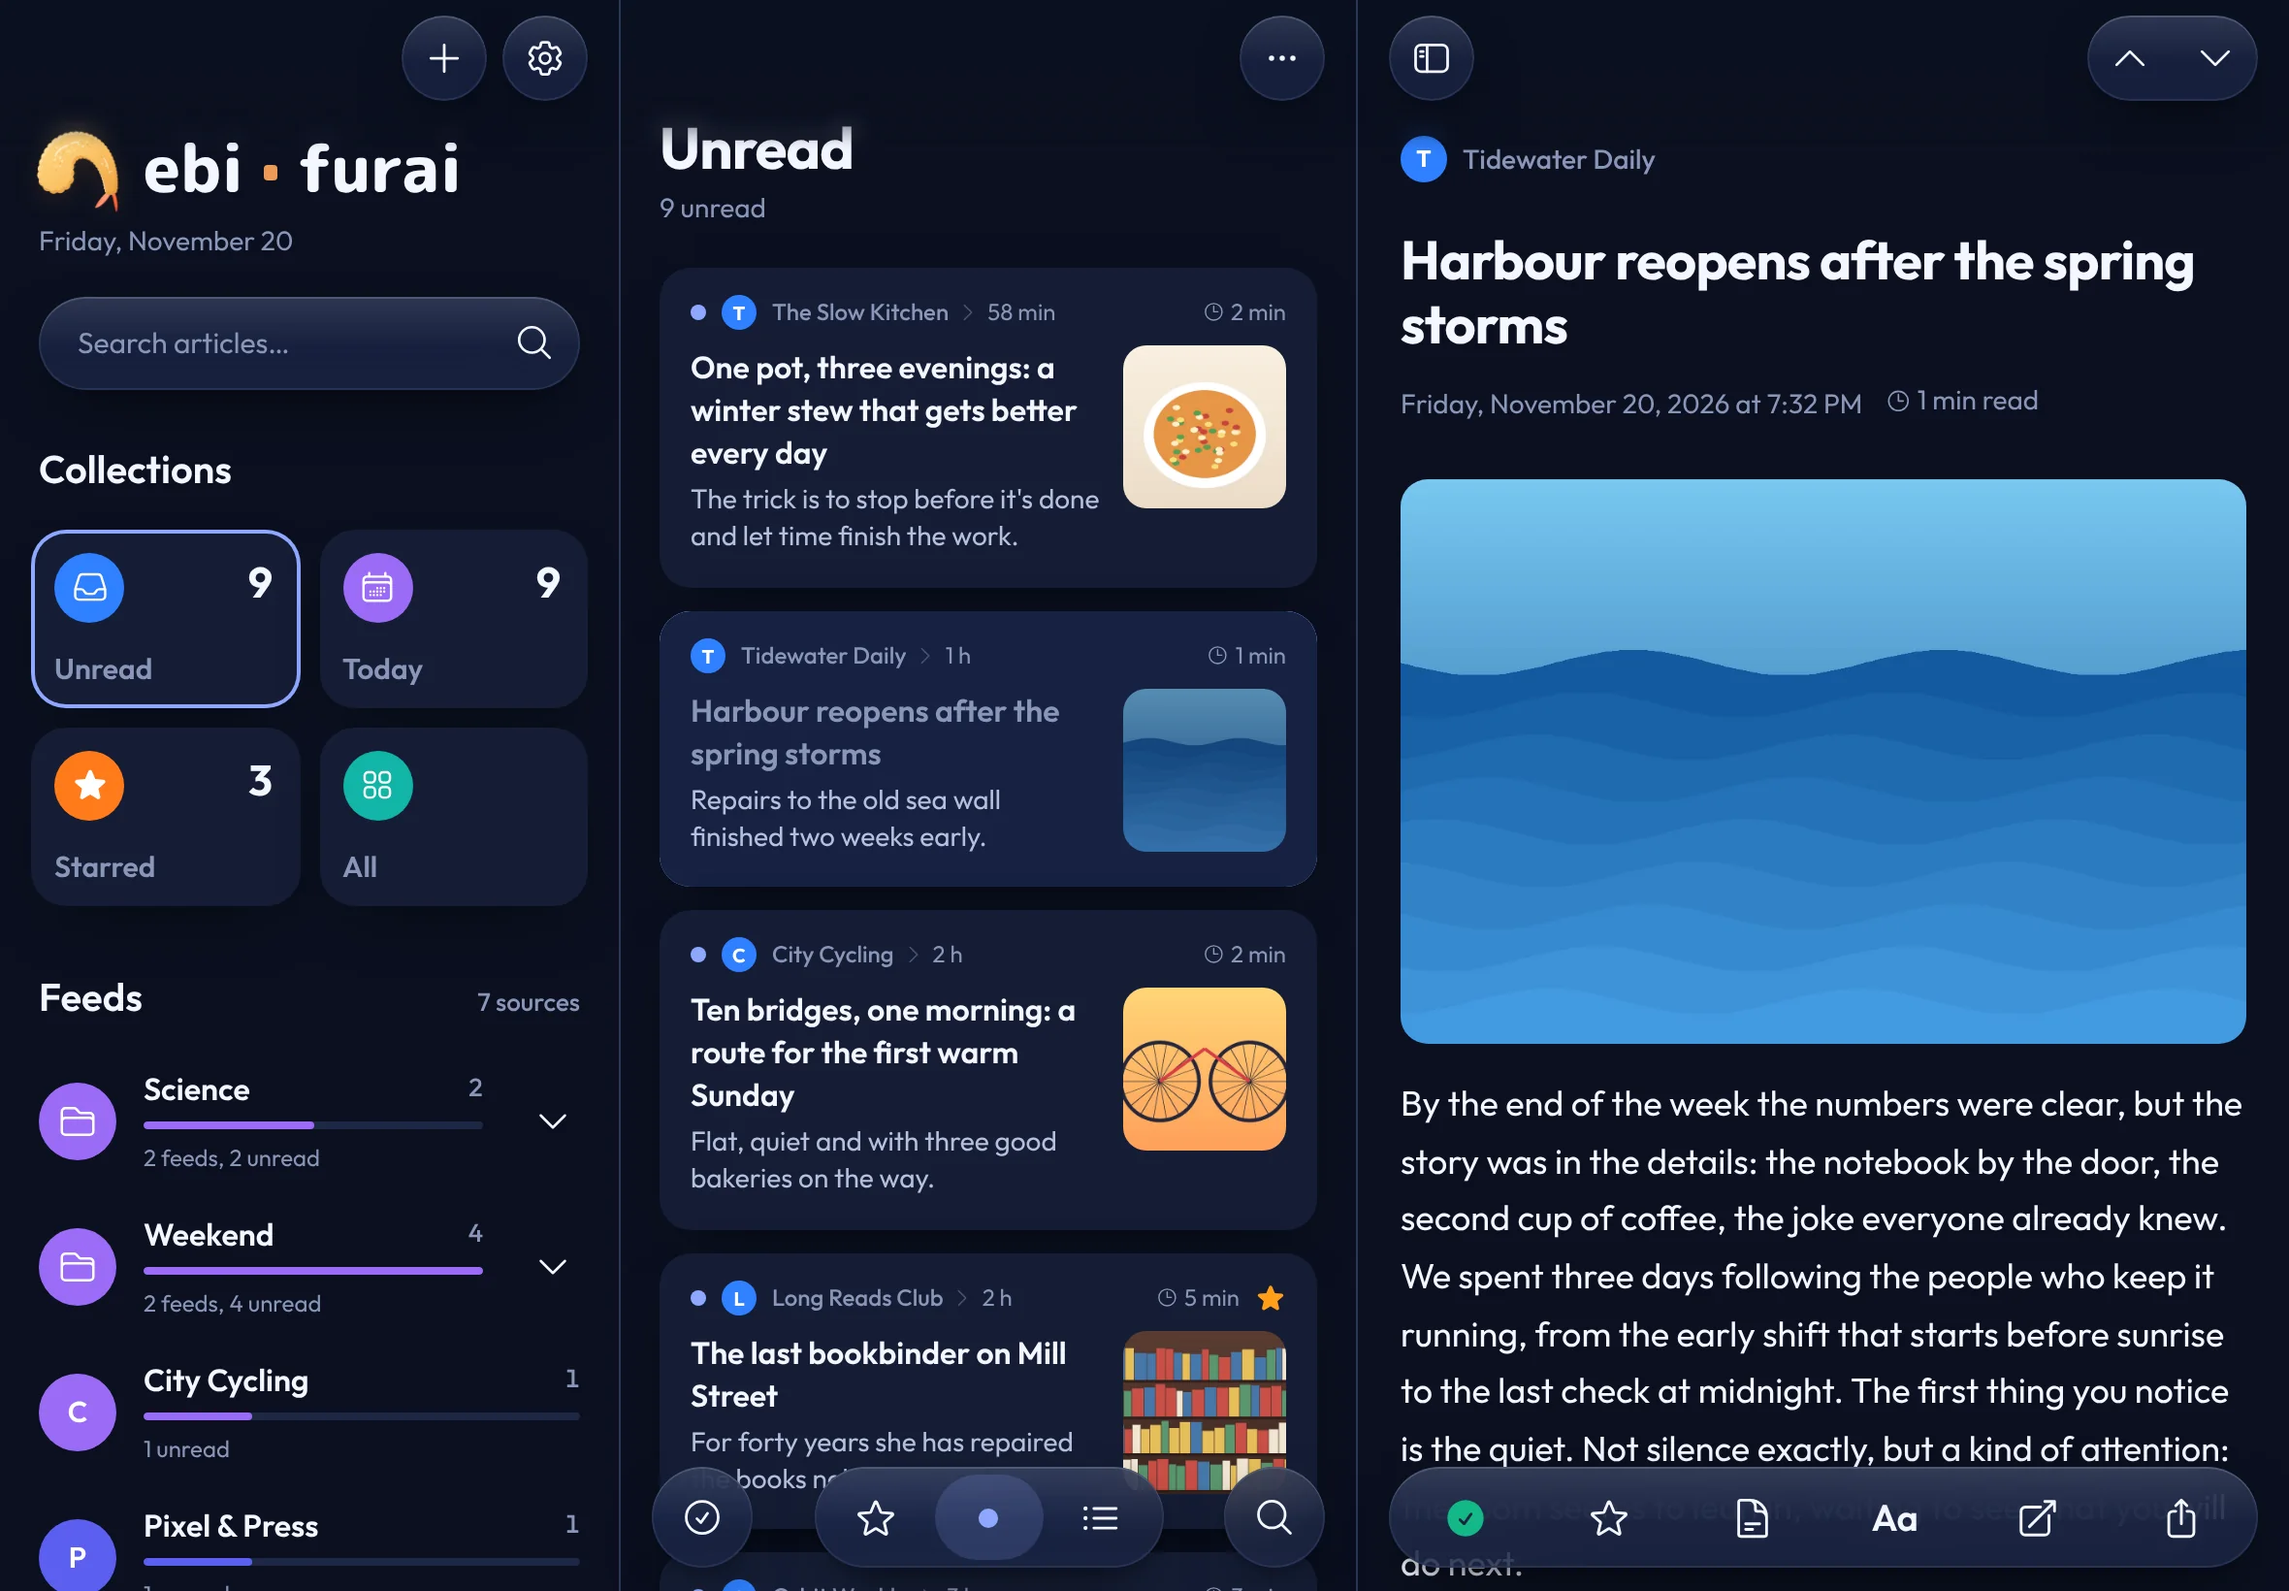
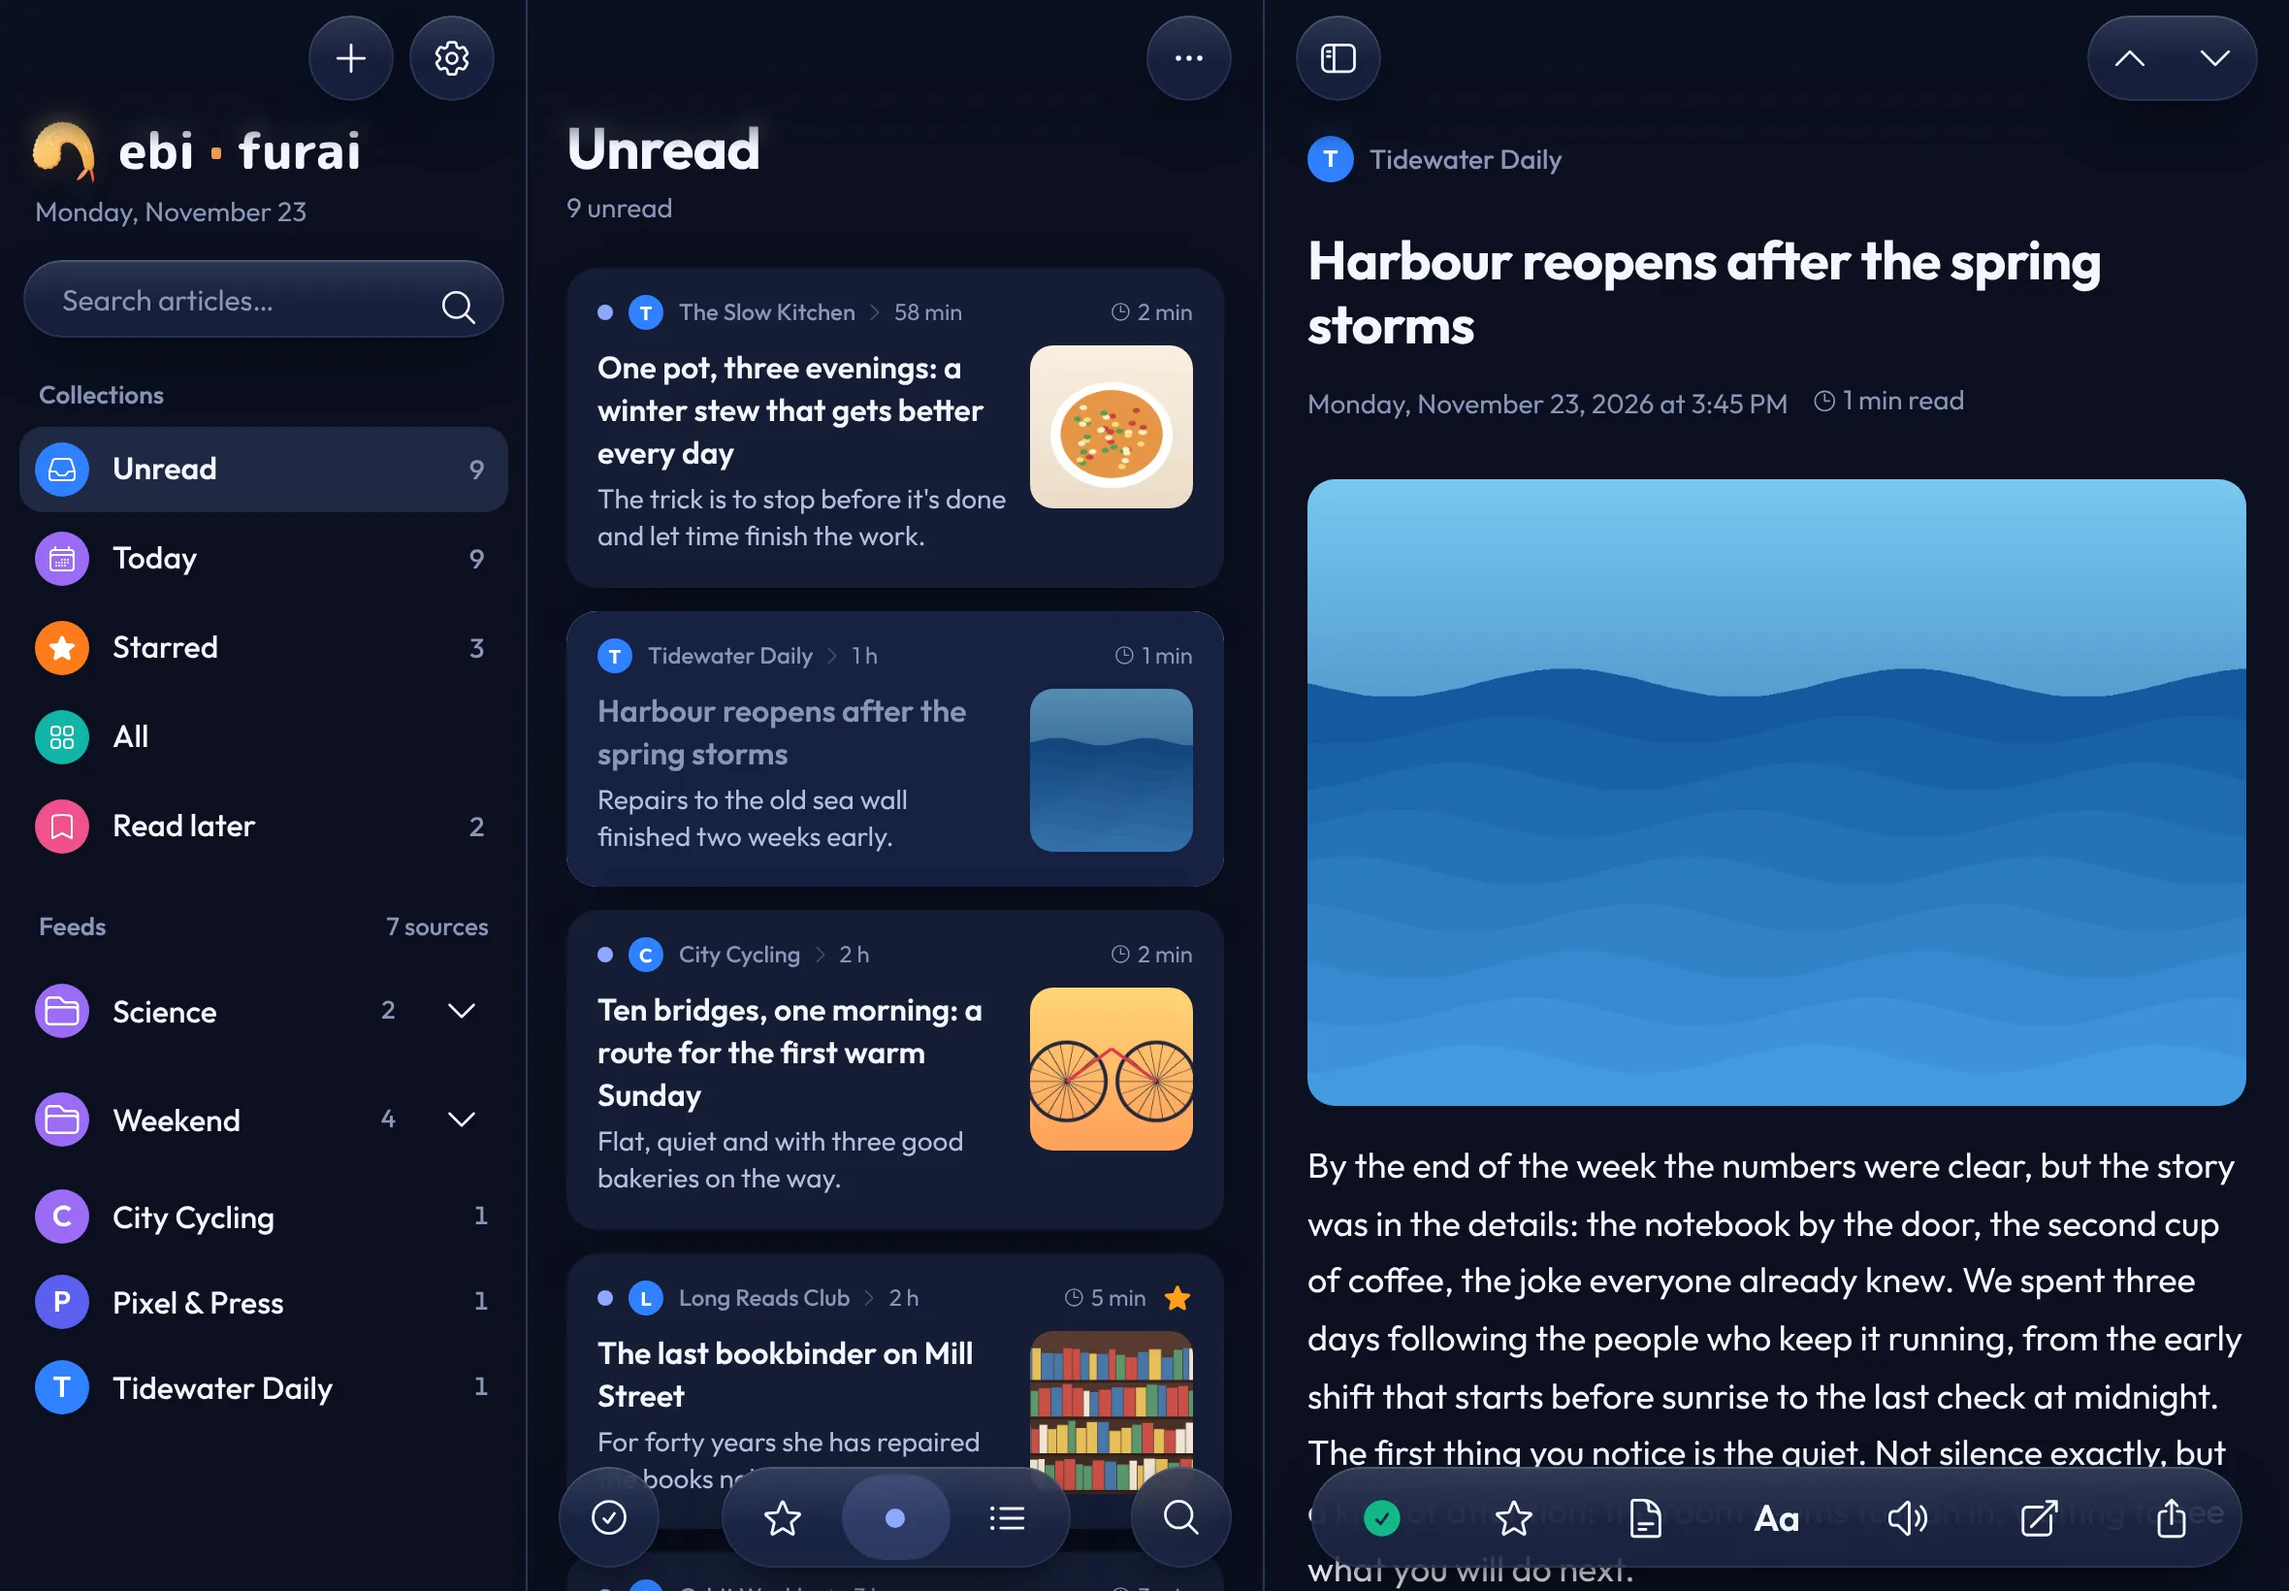
Website and README: fresh screenshots, the desktop app, new features
All screenshots taken again from the current version (the desktop ones
show the macOS-style layout, with Read later in the sidebar). The website
gets a section on the desktop app and cards for Read later, Listen and
the sounds; its link preview is a 1280x640 image. The README shows the
desktop too.

Claude-Session: https://claude.ai/code/session_019BDKZ8UJzomSz8wJyAW18P

diff --git a/site/index.html b/site/index.html
@@ -7,7 +7,7 @@
   <meta name="description" content="A self-hosted RSS reader in the spirit of Reeder Classic, made for iPhone and iPad first. One small server, your feeds stay with you.">
   <meta property="og:title" content="Ebi Furai">
   <meta property="og:description" content="A self-hosted RSS reader in the spirit of Reeder Classic, made for iPhone and iPad first.">
-  <meta property="og:image" content="https://trapassati.github.io/ebi-furai/images/ipad-light.webp">
+  <meta property="og:image" content="https://trapassati.github.io/ebi-furai/images/social.png">
   <meta name="theme-color" content="#2a1670">
   <link rel="icon" href="images/icon.png">
   <link rel="apple-touch-icon" href="images/icon.png">
@@ -248,10 +248,23 @@ docker compose up -d</code></pre></div></li>
 
         <div class="feature flip">
           <div class="text">
-            <h3>Three columns on iPad, shortcuts on the desktop</h3>
-            <p>Feeds, list and article side by side. On a computer everything scales with the screen and the keyboard does the walking: J and K, M, S, slash to search.</p>
+            <h3>Three columns on iPad</h3>
+            <p>Feeds, list and article side by side, in landscape and in portrait. The first column folds away when the article wants the room.</p>
           </div>
           <img class="shot" src="images/ipad-light.webp" alt="Three columns on iPad" loading="lazy">
+        </div>
+
+        <div class="feature">
+          <div class="text">
+            <h3>A real app on the computer</h3>
+            <p>On a Mac or a PC it works like a desktop app, in the style of today's macOS: commands at the top of each column, menus where you click, columns you can resize.</p>
+            <ul>
+              <li>Tooltips that show the keyboard shortcuts</li>
+              <li>J and K, M, S, L to listen, slash to search</li>
+              <li>An interface scale for large screens</li>
+            </ul>
+          </div>
+          <img class="shot" src="images/desktop-light.webp" alt="Ebi Furai on a computer: sidebar, list and article" loading="lazy">
         </div>
 
         <div class="grid3">
@@ -263,10 +276,13 @@ docker compose up -d</code></pre></div></li>
           <div><h4>Feed health</h4><p>Feeds that stop working are listed with what the error means and what to do about it.</p></div>
           <div><h4>Several people</h4><p>Each user has their own feeds. Two-step verification, recovery codes, connected devices.</p></div>
           <div><h4>Private by design</h4><p>Images go through your server, so sites never see your devices. No analytics, no third parties.</p></div>
-          <div><h4>Backups</h4><p>A copy of the database every day, kept for weeks, downloadable and restorable from the app.</p></div>
+          <div><h4>Backups</h4><p>A copy of the database every day, kept for weeks, also on a WebDAV server if you like, restorable from the app.</p></div>
           <div><h4>Reeder and NetNewsWire</h4><p>Prefer a native app? Ebi Furai speaks the Google Reader API, with a password for each app.</p></div>
           <div><h4>Pictures up close</h4><p>Tap a picture in an article to see it full screen, then pinch or double tap to zoom.</p></div>
           <div><h4>Tells you when to update</h4><p>A new release shows up in the app, with what changed and the one command to run.</p></div>
+          <div><h4>Read later</h4><p>Save any page from Safari's share button or a bookmarklet. Its text waits for you, offline too.</p></div>
+          <div><h4>Listen</h4><p>Articles read aloud by your device's voice, paragraph by paragraph, at the speed you like.</p></div>
+          <div><h4>Soft sounds</h4><p>A bell for new articles, a crystal for a star. Off unless you want them, and silent with the iPhone's switch.</p></div>
         </div>
       </div>
     </section>

diff --git a/README.md b/README.md
@@ -27,6 +27,10 @@
   <img src="docs/images/iphone-reader-dark.webp" width="250" alt="Reader on iPhone, dark theme">
 </p>
 
+<p align="center">
+  <img src="docs/images/desktop-light.webp" width="760" alt="Ebi Furai on a computer: sidebar, list and article">
+</p>
+
 Ebi Furai is one small server (a single Go binary with SQLite) and an installable web app. You run it on
 your own machine: a home server, a Raspberry Pi, a NAS, a VPS. Your feeds, your reading and your accounts
 stay there.
